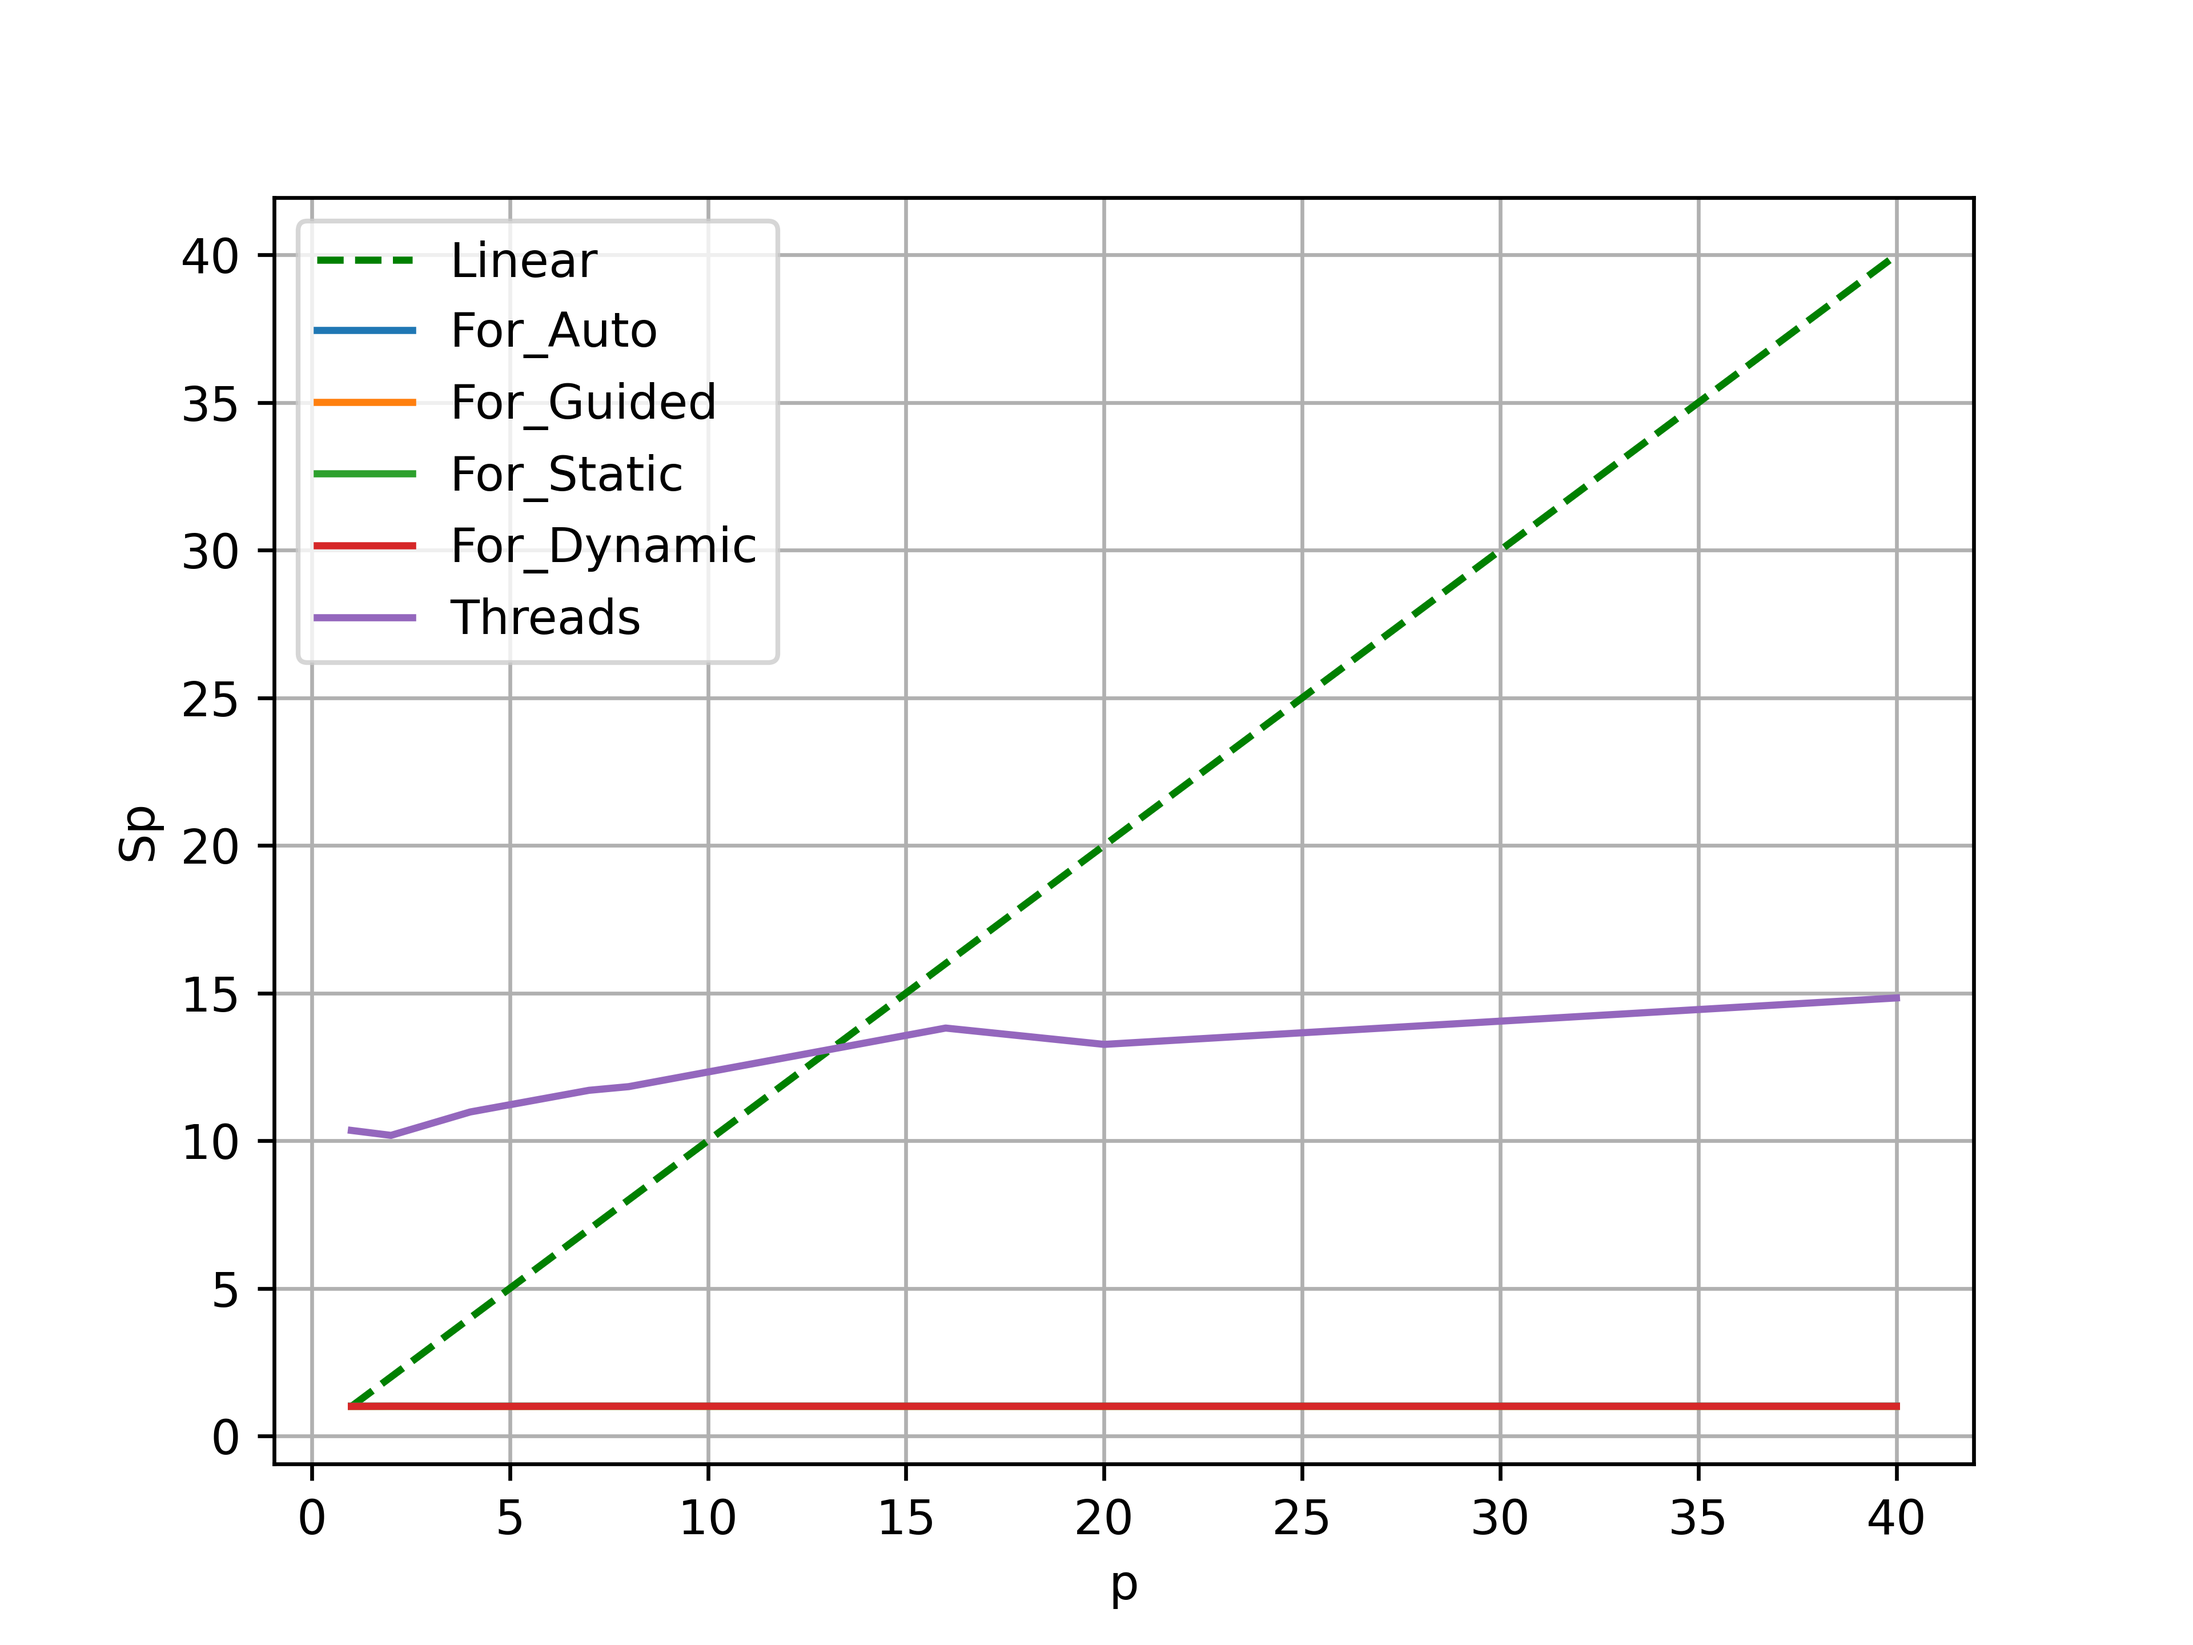
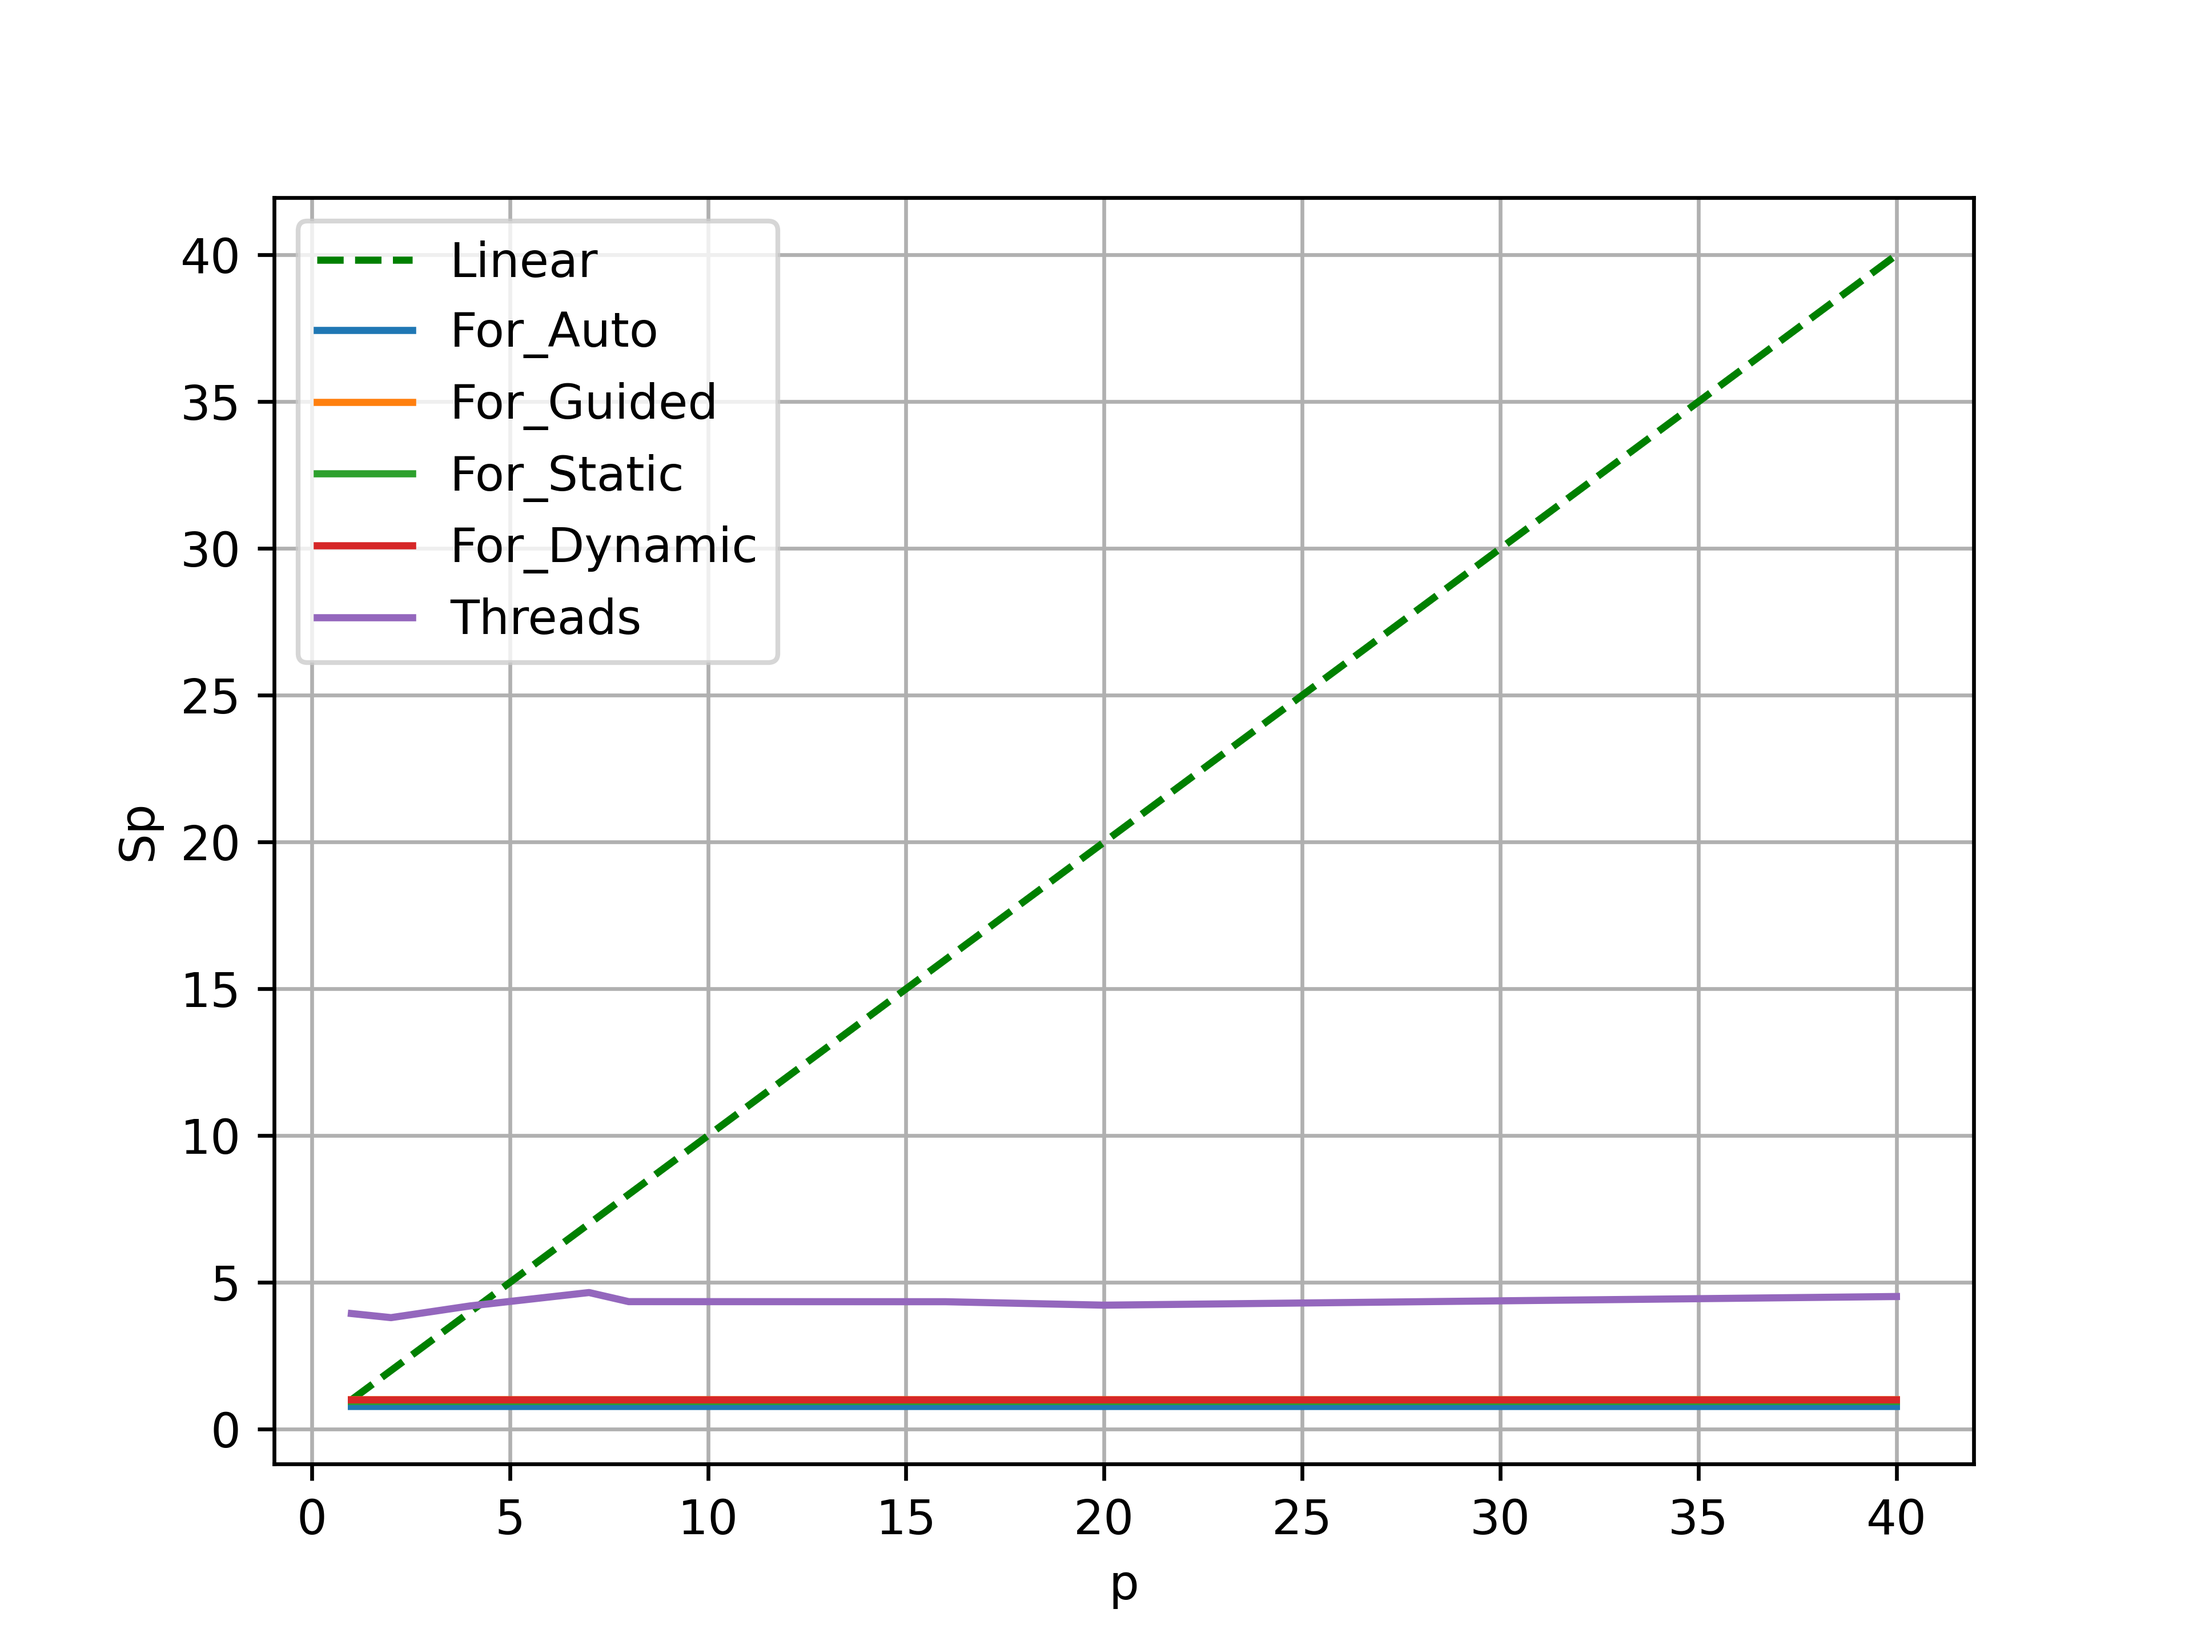
new

diff --git a/task2/sole_for.cpp b/task2/sole_for.cpp
@@ -8,9 +8,9 @@
 
 #include "lib/for.hpp"
 
-#define N 4000
+#define N 1900
 #define ITER 10
-#define TAU 0.01
+#define TAU 0.001
 #define EPSILON 0.00001
 
 using int_vec = std::vector<int>;
@@ -39,41 +39,40 @@ int main()
     double res_serial = 0.0;
     for (int i = 0; i < ITER; i++) res_serial += run(generate_serial, step_serial, TAU, N, 0);
     res_serial /= ITER;
-    std::cout << "Serial finished.\n";
+
+    int chunk = 300;
 
     std::cout << "Start for auto...\n";
     double res_for_auto = 0.0;
-    for (int i = 0; i < ITER; i++) res_for_auto += run(generate_parallel_auto, step_parallel_for_auto, TAU, N, 0);
+    for (int i = 0; i < ITER; i++) res_for_auto += run(generate_serial, step_parallel_for_auto, TAU, N, 0);
     res_for_auto /= ITER;
-    std::cout << "Auto finished.\n";
-    
-    std::cout << "Start for static...";
+
     double res_for_static = 0.0;
-    for (int i = 0; i < ITER; i++) res_for_static += run(generate_parallel_static, step_parallel_for_static, TAU, N, 0);
+    std::cout << "Start for static...\n";
+    for (int i = 0; i < ITER; i++) res_for_static += run(generate_serial, step_parallel_for_static, TAU, N, 0);
     res_for_static /= ITER;
-    std::cout << "Static finished.\n";
-    
-    std::cout << "Start for guided...\n";
+
+    double res_dynamic = 0.0;
+    std::cout << "Start dynamic...\n";
+    for (int i = 0; i < ITER; i++) res_dynamic += run(generate_serial, step_parallel_for_dynamic, TAU, N, chunk);
+    res_dynamic /= ITER;
+
     double res_for_guided = 0.0;
-    for (int i = 0; i < ITER; i++) res_for_guided += run(generate_parallel_guided, step_parallel_for_guided, TAU, N, 0);
+    std::cout << "Start for guided...\n";
+    for (int i = 0; i < ITER; i++) res_for_guided += run(generate_serial, step_parallel_for_guided, TAU, N, chunk);
     res_for_guided /= ITER;
-    std::cout << "Guided finished.\n";
 
     double res_threads = 0.0;
     double_vec results_threads(threads_list.size());
-    double res_dynamic = 0.0;
-    double_vec results_dynamic(threads_list.size());
     for (int j = 0; j < threads_list.size(); j++)
     {
         std::cout << "Start threads (" << threads_list[j] << ")...\n";
-        for (int i = 0; i < ITER; i++) res_threads += run(generate_parallel_threads, step_parallel_threads, TAU, N, threads_list[j]);
+        for (int i = 0; i < ITER; i++) 
+        {
+            res_threads += run(generate_parallel_threads, step_parallel_threads, TAU, N, threads_list[j]);
+        }
         results_threads[j] = res_threads / ITER;
         res_threads = 0.0;
-
-        std::cout << "Start dynamic (" << threads_list[j] << ")...\n";
-        for (int i = 0; i < ITER; i++) res_dynamic += run(generate_parallel_dynamic, step_parallel_for_dynamic, TAU, N, N / threads_list[j]);
-        results_dynamic[j] = res_dynamic / ITER;
-        res_dynamic = 0.0;
     }
     for (int threads: threads_list) outputFile << threads << " ";
     outputFile << "\n";
@@ -81,6 +80,7 @@ int main()
     outputFile << "For_Auto";
     for (int i = 0; i < threads_list.size(); i++) outputFile << " " << res_for_auto << "," << res_serial / res_for_auto;
     outputFile << "\n";
+
 
     outputFile << "For_Guided";
     for (int i = 0; i < threads_list.size(); i++) outputFile << " " << res_for_guided << "," << res_serial / res_for_guided;
@@ -90,9 +90,8 @@ int main()
     for (int i = 0; i < threads_list.size(); i++) outputFile << " " << res_for_static << "," << res_serial / res_for_static;
     outputFile << "\n";
 
-
     outputFile << "For_Dynamic";
-    for (int i = 0; i < threads_list.size(); i++) outputFile << " " << results_dynamic[i] << "," << res_serial / results_dynamic[i];
+    for (int i = 0; i < threads_list.size(); i++) outputFile << " " << res_dynamic << "," << res_serial / res_dynamic;
     outputFile << "\n";
 
     outputFile << "Threads";

diff --git a/task2/lib/for.cpp b/task2/lib/for.cpp
@@ -1,82 +1,9 @@
 #include "for.hpp"
 #include <omp.h>
 
-void generate_parallel_auto(vec &A, vec &b, vec &x, vec &x_0, int n, int _)
-{
-    #pragma omp for schedule(auto)
-    for (int i = 0; i < n; i++)
-    {
-        b[i] = static_cast<double>(n + 1);
-        for (int j = 0; j < n; j++)
-        {
-            A[i * n + j] = static_cast<double>((i == j) ? 2 : 1);
-        }
-    }
-    for (int i = 0; i < n; i++)
-    {
-        x[i] = static_cast<double>(0.0);
-        x_0[i] = static_cast<double>(0.0);
-    }
-}
-
-void generate_parallel_static(vec &A, vec &b, vec &x, vec &x_0, int n, int _)
-{
-    #pragma omp for schedule(static)
-    for (int i = 0; i < n; i++)
-    {
-        b[i] = static_cast<double>(n + 1);
-        for (int j = 0; j < n; j++)
-        {
-            A[i * n + j] = static_cast<double>((i == j) ? 2 : 1);
-        }
-    }
-    for (int i = 0; i < n; i++)
-    {
-        x[i] = static_cast<double>(0.0);
-        x_0[i] = static_cast<double>(0.0);
-    }
-}
-
-void generate_parallel_dynamic(vec &A, vec &b, vec &x, vec &x_0, int n, int ChunkSize)
-{
-    #pragma omp for schedule(dynamic, ChunkSize)
-    for (int i = 0; i < n; i++)
-    {
-        b[i] = static_cast<double>(n + 1);
-        for (int j = 0; j < n; j++)
-        {
-            A[i * n + j] = static_cast<double>((i == j) ? 2 : 1);
-        }
-    }
-    for (int i = 0; i < n; i++)
-    {
-        x[i] = static_cast<double>(0.0);
-        x_0[i] = static_cast<double>(0.0);
-    }
-}
-
-void generate_parallel_guided(vec &A, vec &b, vec &x, vec &x_0, int n, int _)
-{
-    #pragma omp for schedule(guided)
-    for (int i = 0; i < n; i++)
-    {
-        b[i] = static_cast<double>(n + 1);
-        for (int j = 0; j < n; j++)
-        {
-            A[i * n + j] = static_cast<double>((i == j) ? 2 : 1);
-        }
-    }
-    for (int i = 0; i < n; i++)
-    {
-        x[i] = static_cast<double>(0.0);
-        x_0[i] = static_cast<double>(0.0);
-    }
-}
-
-
 void step_parallel_for_auto(const vec &A, const vec &b, const vec &x_0, vec &x, double tau, int n, int _)
 {
-    #pragma omp for schedule(guided)
+    #pragma omp for schedule(auto)
     for (int i = 0; i < n; i++)
     {
         double tmp = 0.0;
@@ -88,9 +15,9 @@ void step_parallel_for_auto(const vec &A, const vec &b, const vec &x_0, vec &x, 
     }
 }
 
-void step_parallel_for_static(const vec &A, const vec &b, const vec &x_0, vec &x, double tau, int n, int _)
+void step_parallel_for_static(const vec &A, const vec &b, const vec &x_0, vec &x, double tau, int n, int ChunkSize)
 {
-    #pragma omp for schedule(guided)
+    #pragma omp for schedule(static)
     for (int i = 0; i < n; i++)
     {
         double tmp = 0.0;
@@ -104,7 +31,7 @@ void step_parallel_for_static(const vec &A, const vec &b, const vec &x_0, vec &x
 
 void step_parallel_for_dynamic(const vec &A, const vec &b, const vec &x_0, vec &x, double tau, int n, int ChunkSize)
 {
-    #pragma omp for schedule(guided)
+    #pragma omp for schedule(dynamic, ChunkSize)
     for (int i = 0; i < n; i++)
     {
         double tmp = 0.0;
@@ -116,9 +43,9 @@ void step_parallel_for_dynamic(const vec &A, const vec &b, const vec &x_0, vec &
     }
 }
 
-void step_parallel_for_guided(const vec &A, const vec &b, const vec &x_0, vec &x, double tau, int n, int _)
+void step_parallel_for_guided(const vec &A, const vec &b, const vec &x_0, vec &x, double tau, int n, int ChunkSize)
 {
-    #pragma omp for schedule(guided)
+    #pragma omp for schedule(guided, ChunkSize)
     for (int i = 0; i < n; i++)
     {
         double tmp = 0.0;

diff --git a/task2/lib/for.hpp b/task2/lib/for.hpp
@@ -4,12 +4,7 @@
 
 using vec = std::unique_ptr<double[]>;
 
-void generate_parallel_auto(vec &A, vec &b, vec &x, vec &x_0, int n, int _);
-void generate_parallel_static(vec &A, vec &b, vec &x, vec &x_0, int n, int _);
-void generate_parallel_dynamic(vec &A, vec &b, vec &x, vec &x_0, int n, int ChunkSize);
-void generate_parallel_guided(vec &A, vec &b, vec &x, vec &x_0, int n, int _);
-
 void step_parallel_for_auto(const vec &A, const vec &b, const vec &x_0, vec &x, double tau, int n, int _);
-void step_parallel_for_static(const vec &A, const vec &b, const vec &x_0, vec &x, double tau, int n, int _);
+void step_parallel_for_static(const vec &A, const vec &b, const vec &x_0, vec &x, double tau, int n, int ChukSize);
 void step_parallel_for_dynamic(const vec &A, const vec &b, const vec &x_0, vec &x, double tau, int n, int ChunkSize);
-void step_parallel_for_guided(const vec &A, const vec &b, const vec &x_0, vec &x, double tau, int n, int _);
+void step_parallel_for_guided(const vec &A, const vec &b, const vec &x_0, vec &x, double tau, int n, int ChunkSize);

diff --git a/task2/show.py b/task2/show.py
@@ -15,7 +15,6 @@ data = {}
 with open(data_path, "r") as file:
    lines = [line[:-2].split(" ") for line in file.readlines()]
    X = list(map(int, lines[0]))
-   print(X)
    for line in lines[1:]:
       data[line[0]] = [[], []]
       for elem in line[1:]:
